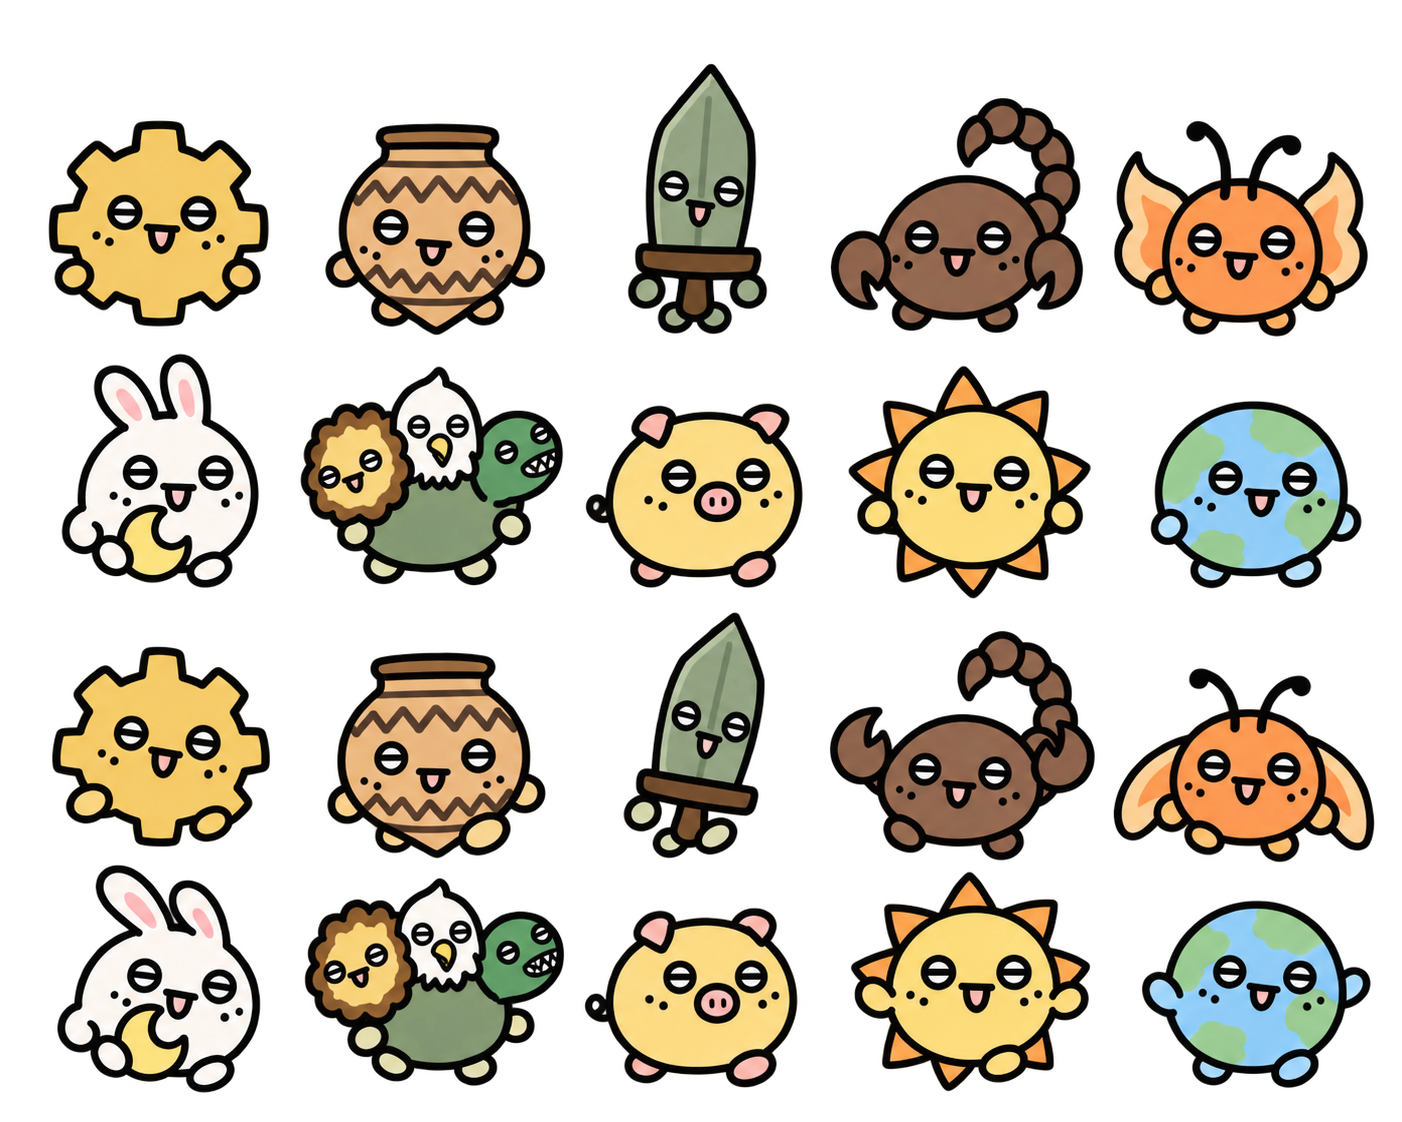
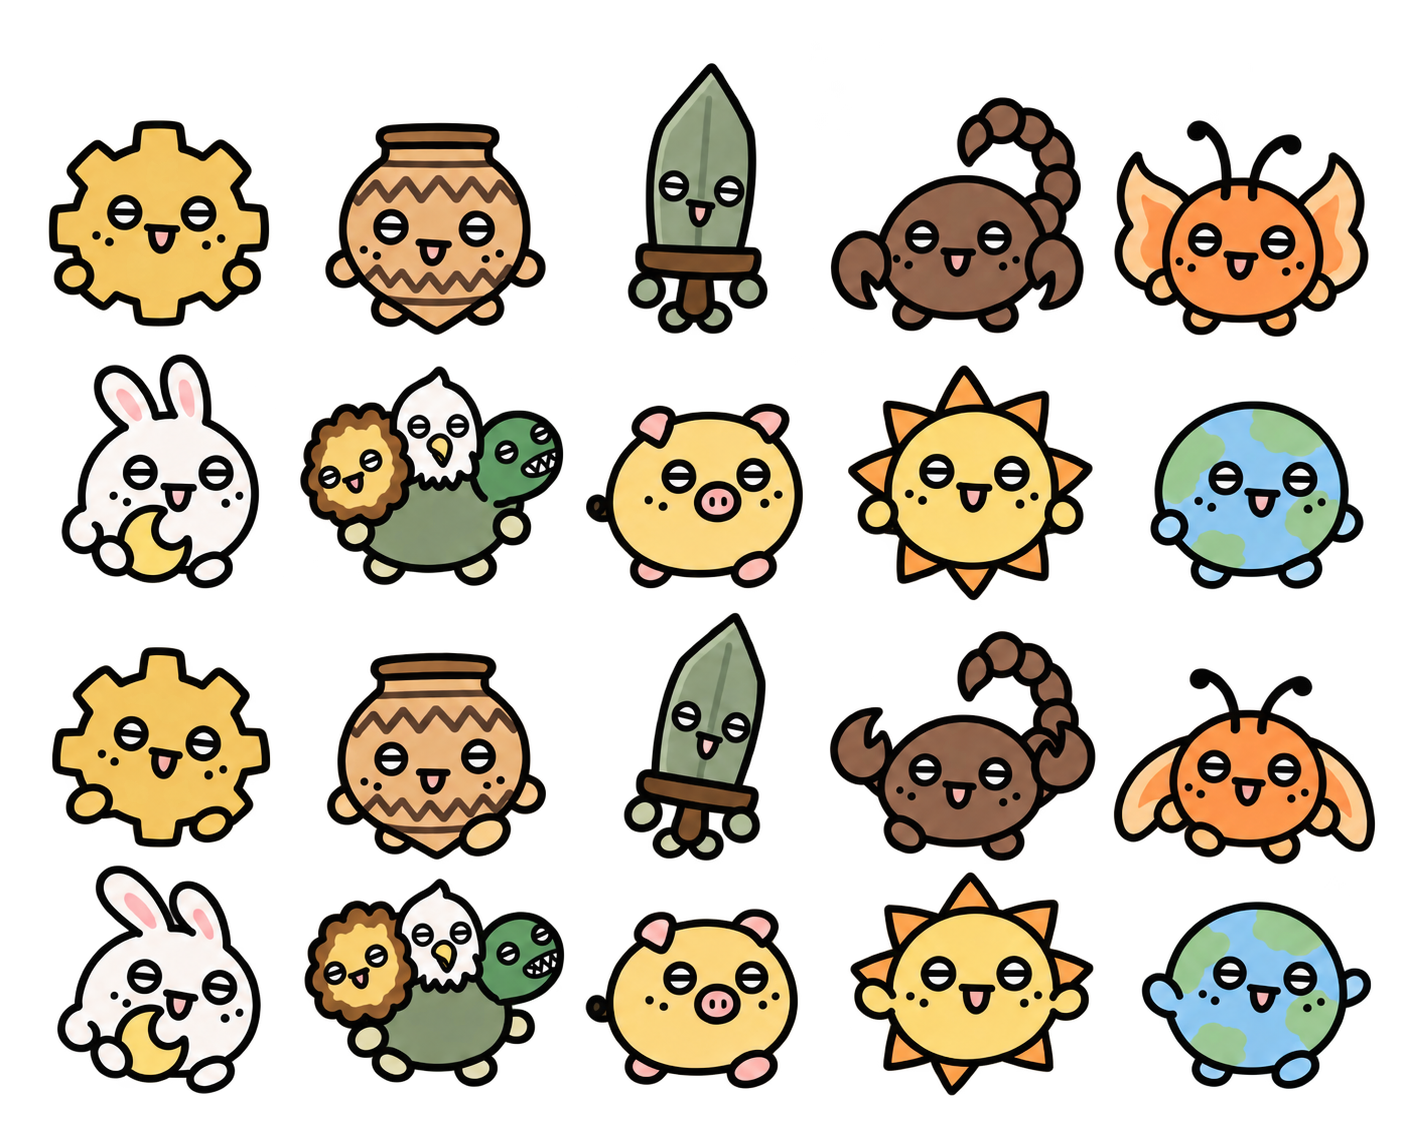
Keep companion limb counts consistent across both poses

diff --git a/Documentation/UI/ASCENSION.md b/Documentation/UI/ASCENSION.md
@@ -32,6 +32,25 @@
 | 태양 | 작은 태양 |
 | 지구 | 뒤따르는 장식 없이 지구 자체 |
 
+## 두 컷 애니메이션의 팔다리 일관성
+
+두 컷은 같은 신체 구성을 유지하고 자세만 바꾼다. GOAT는 양쪽 모두 발굽 두 개가 보이도록 수정했다. 청동검 두 번째 컷의 빠진 손을 복원하고, 태양 두 번째 컷에만 있던 발을 제거했다. 각 스프라이트의 투명 여백 경계를 갱신하되 기존 픽셀 단위 크기는 유지했다.
+
+| 동료 | 두 컷 모두의 팔다리 |
+| --- | --- |
+| 황금톱니바퀴 | 손 2, 발 0 |
+| 빗살무늬토기 | 손 2, 발 2 |
+| 청동검 | 손 2, 발 2 |
+| 전갈 | 집게 2, 발 2, 꼬리 1 |
+| 불나방 | 손 2, 발 2, 날개 2 |
+| boat | 발 2 |
+| 키메라 | 손 2, 발 2, 머리 3 |
+| GOAT | 발굽 2, 꼬리 1 |
+| 태양 | 손 2, 발 0 |
+| 지구 | 손 2, 발 2 |
+
+내장 `image_gen` 편집으로 `AscensionCompanions.png`와 `AscensionRevisions.png`를 수정했다. [최종 편집 프롬프트](ascension-anatomy-edit-prompts.json)에 두 파일의 저장 경로와 편집 지시를 기록했다.
+
 ## 장비·등급·확률
 
 - 갑옷과 몽둥이에 각각 근원 가시, 근원 수정, 초월 날개, 초월 별빛, 갓 태양 5개씩 추가한다.
